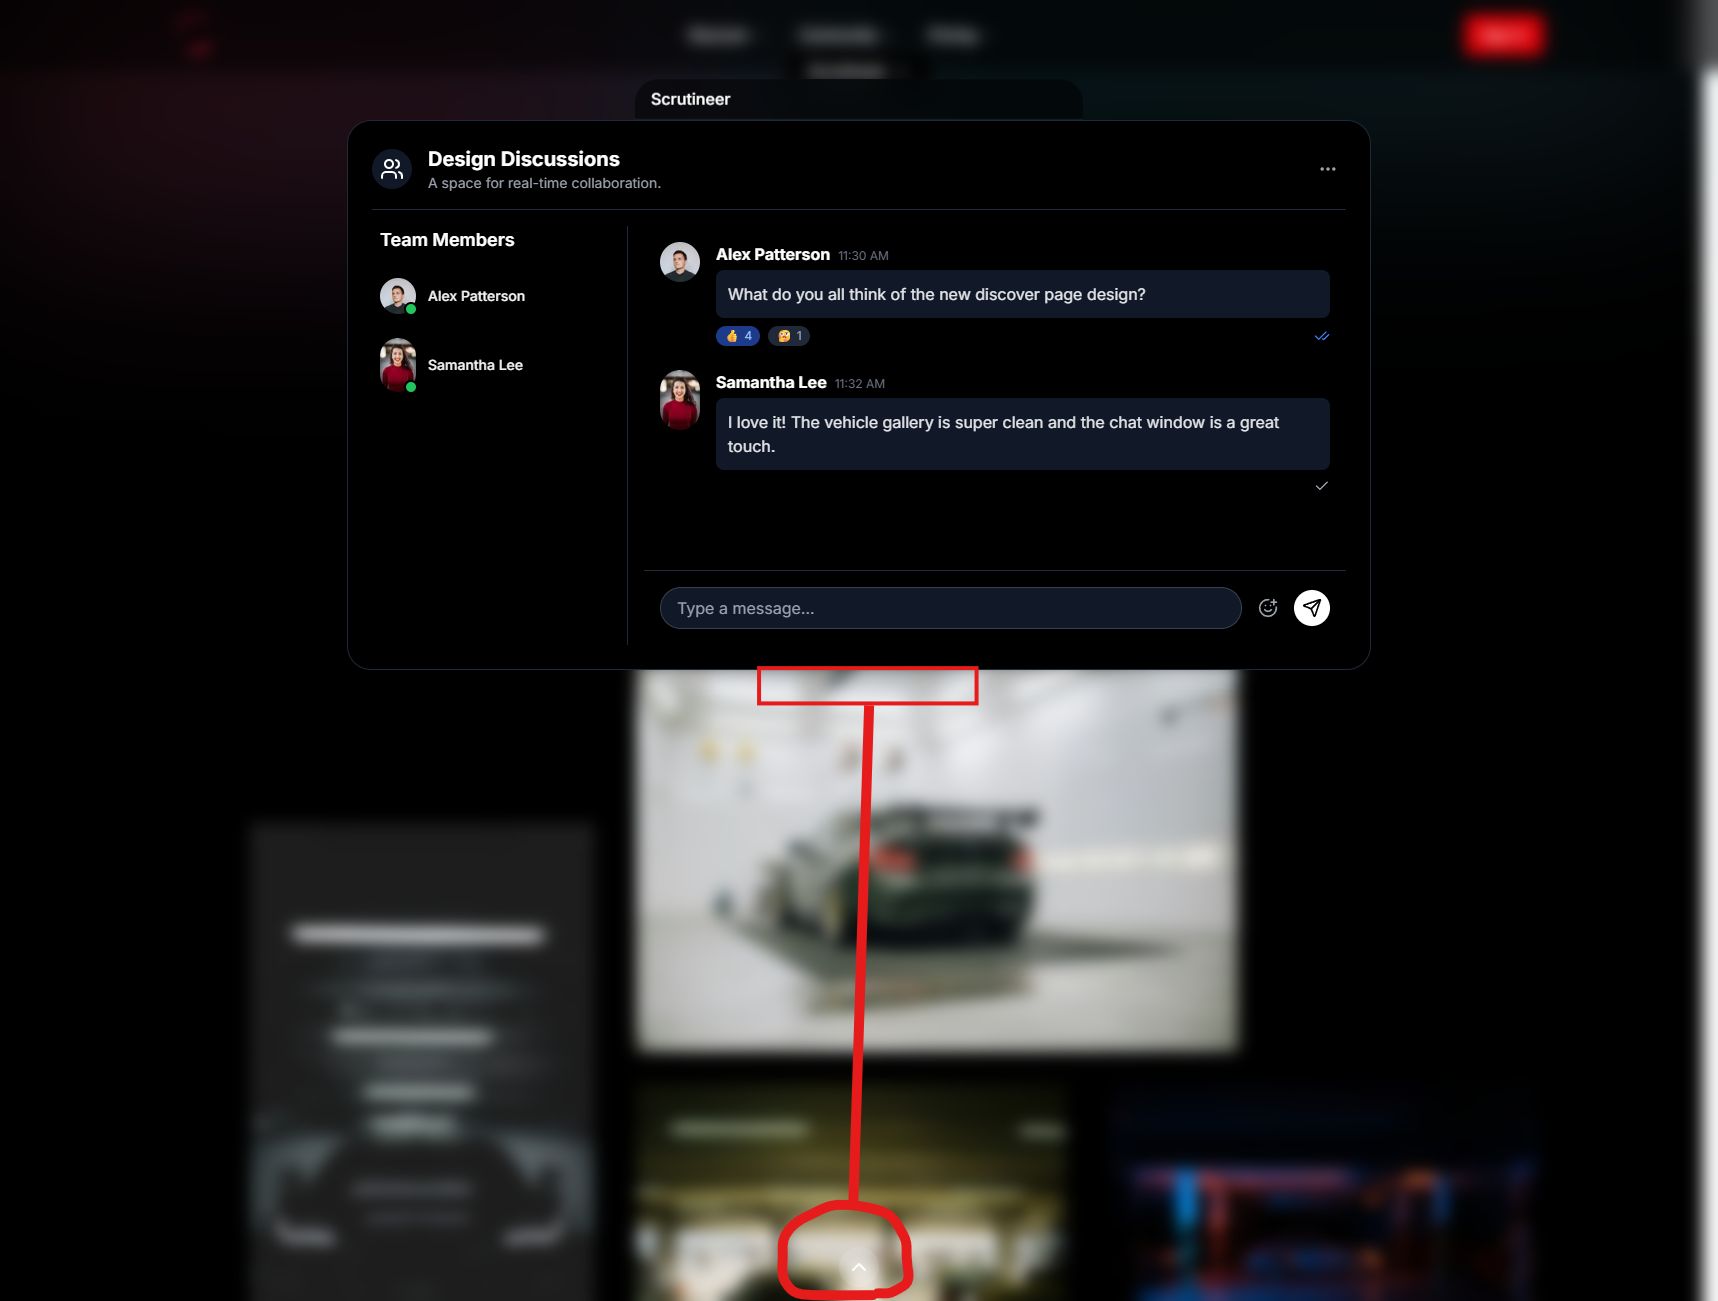
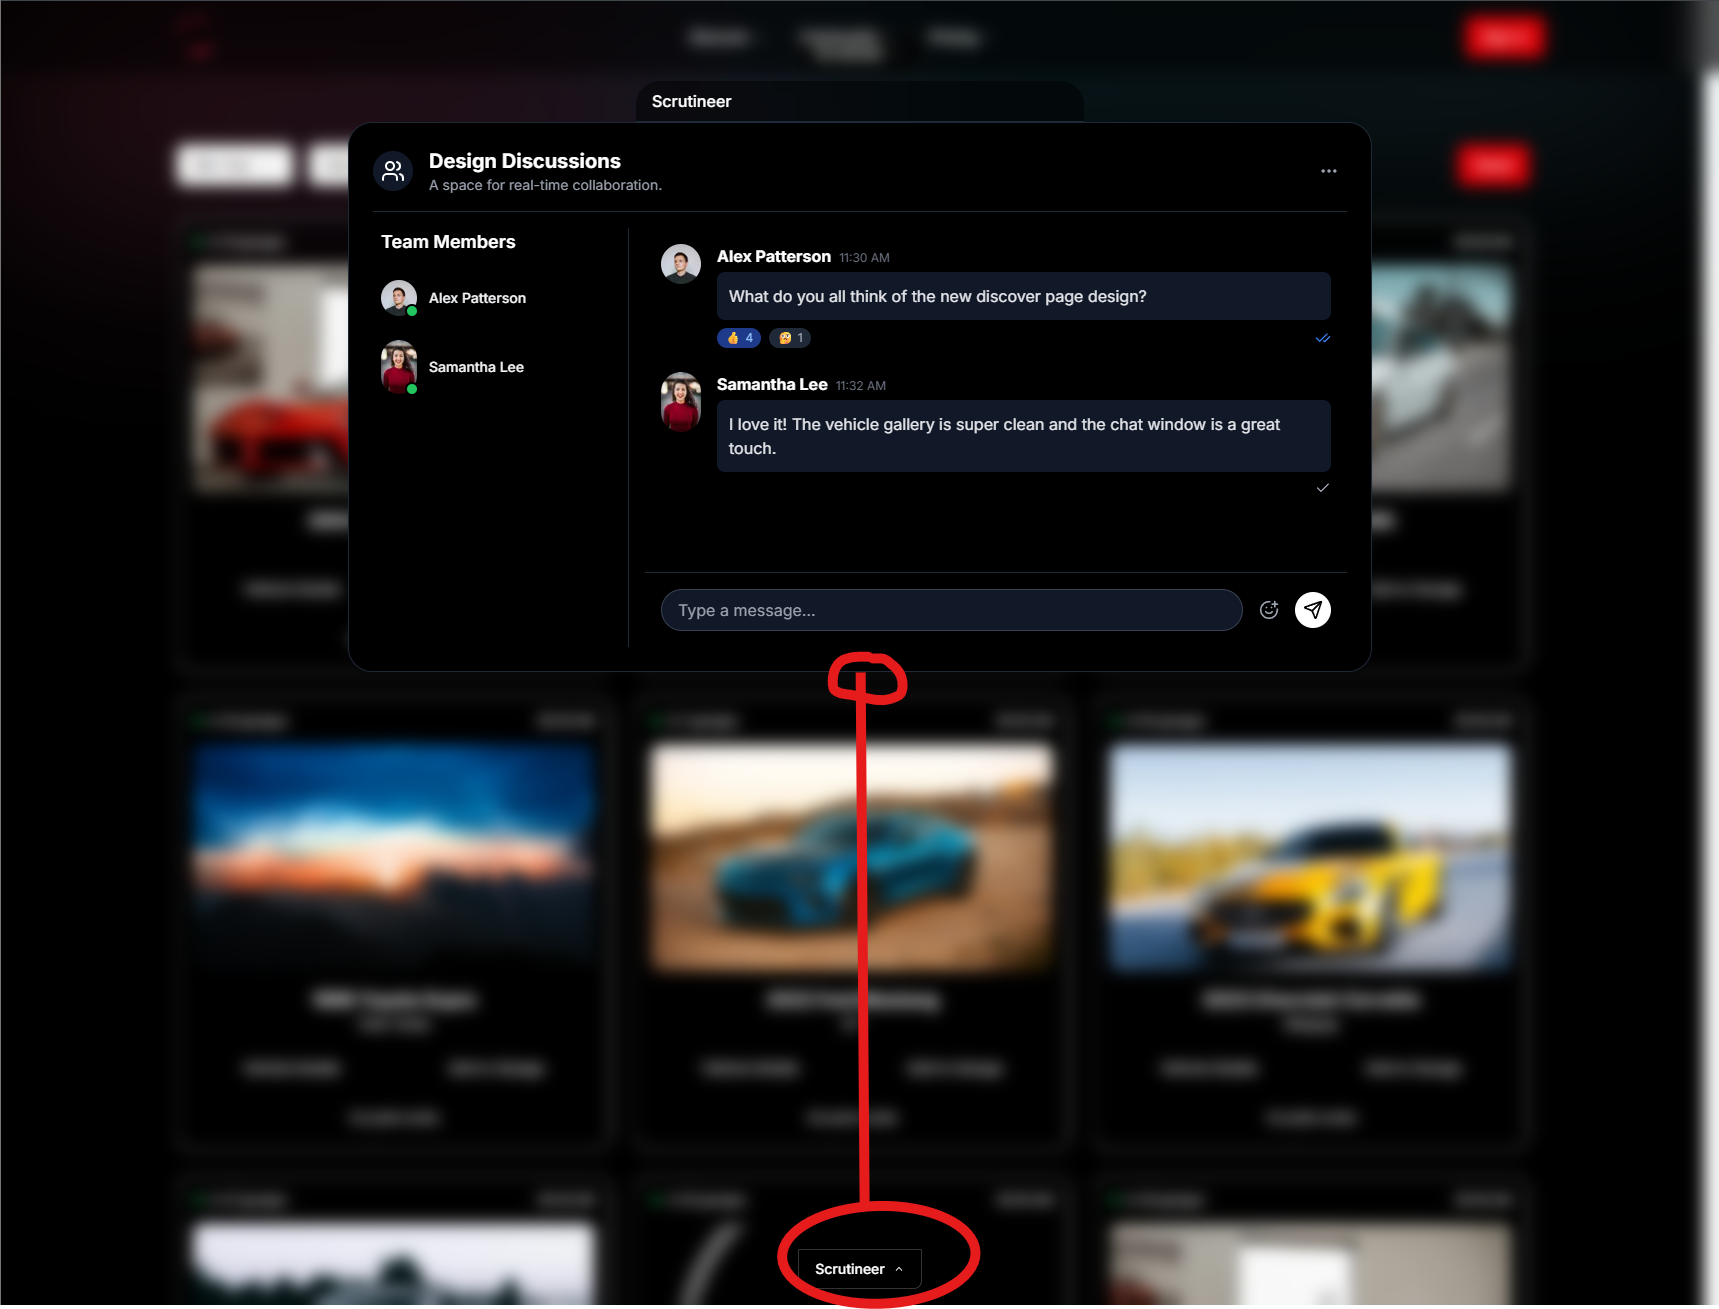
refactor: update ChatDrawer layout and styling, reposition Scrutineer button, and replace screenshots

diff --git a/my-turborepo/packages/ui/src/header.tsx b/my-turborepo/packages/ui/src/header.tsx
@@ -27,53 +27,60 @@ export function Header() {
       <AuthModal open={authModalOpen} onOpenChange={setAuthModalOpen} />
       <ChatDrawer open={chatDrawerOpen} onOpenChange={setChatDrawerOpen} />
     <header className="fixed top-0 left-0 right-0 z-50 bg-black/50 backdrop-blur-lg">
-      <div className="container mx-auto flex items-center justify-between p-4 text-white relative">
-        <Link href="/">
-          <Logo />
-        </Link>
-        <NavigationMenu>
-          <NavigationMenuList>
-            <NavigationMenuItem>
-              <NavigationMenuTrigger>Discover</NavigationMenuTrigger>
-              <NavigationMenuContent>
-                <div className="grid grid-cols-2 gap-3 p-4 w-full">
-                  <GridCard title="Explore Vehicles" href="/discover">
-                    Browse a curated collection of unique and interesting vehicles.
-                  </GridCard>
-                  <GridCard title="Featured Builds" href="/builds">
-                    Get inspired by top builds from the community.
-                  </GridCard>
-                </div>
-              </NavigationMenuContent>
-            </NavigationMenuItem>
-            <NavigationMenuItem>
-              <NavigationMenuTrigger>Community</NavigationMenuTrigger>
-              <NavigationMenuContent>
-                <div className="grid grid-cols-2 gap-3 p-4 w-full">
-                  <GridCard title="Community Builds" href="/community/builds">
-                    See what others are building and share your own progress.
-                  </GridCard>
-                  <GridCard title="Member Garages" href="/community/garages">
-                    Check out the garages of other enthusiasts.
-                  </GridCard>
-                </div>
-              </NavigationMenuContent>
-            </NavigationMenuItem>
-            <NavigationMenuItem>
-              <NavigationMenuTrigger>Pricing</NavigationMenuTrigger>
-              <NavigationMenuContent>
-                <PricingDropdown />
-              </NavigationMenuContent>
-            </NavigationMenuItem>
-          </NavigationMenuList>
-        </NavigationMenu>
-        <Button onClick={() => setAuthModalOpen(true)}>Sign In</Button>
+      <div className="container mx-auto p-4 text-white">
+        {/* Top row with logo and sign in */}
+        <div className="flex items-center justify-between mb-4">
+          <Link href="/">
+            <Logo />
+          </Link>
+          <Button onClick={() => setAuthModalOpen(true)}>Sign In</Button>
+        </div>
 
-        {/* Scrutineer Tab - positioned at bottom of header */}
-        <div className="absolute bottom-0 left-1/2 transform -translate-x-1/2">
+        {/* Centered navigation menu */}
+        <div className="flex justify-center">
+          <NavigationMenu>
+            <NavigationMenuList>
+              <NavigationMenuItem>
+                <NavigationMenuTrigger>Discover</NavigationMenuTrigger>
+                <NavigationMenuContent>
+                  <div className="grid grid-cols-2 gap-3 p-4 w-full">
+                    <GridCard title="Explore Vehicles" href="/discover">
+                      Browse a curated collection of unique and interesting vehicles.
+                    </GridCard>
+                    <GridCard title="Featured Builds" href="/builds">
+                      Get inspired by top builds from the community.
+                    </GridCard>
+                  </div>
+                </NavigationMenuContent>
+              </NavigationMenuItem>
+              <NavigationMenuItem>
+                <NavigationMenuTrigger>Community</NavigationMenuTrigger>
+                <NavigationMenuContent>
+                  <div className="grid grid-cols-2 gap-3 p-4 w-full">
+                    <GridCard title="Community Builds" href="/community/builds">
+                      See what others are building and share your own progress.
+                    </GridCard>
+                    <GridCard title="Member Garages" href="/community/garages">
+                      Check out the garages of other enthusiasts.
+                    </GridCard>
+                  </div>
+                </NavigationMenuContent>
+              </NavigationMenuItem>
+              <NavigationMenuItem>
+                <NavigationMenuTrigger>Pricing</NavigationMenuTrigger>
+                <NavigationMenuContent>
+                  <PricingDropdown />
+                </NavigationMenuContent>
+              </NavigationMenuItem>
+            </NavigationMenuList>
+          </NavigationMenu>
+        </div>
+
+        {/* Scrutineer Tab - positioned at bottom of header, centered and merged with bottom edge */}
+        <div className="flex justify-center mt-4">
           <button
             onClick={() => setChatDrawerOpen(!chatDrawerOpen)}
-            className="bg-black/50 backdrop-blur-lg border border-white/20 rounded-b-lg h-10 px-4 py-2 text-sm font-medium text-white hover:bg-slate-800/50 transition-colors flex items-center gap-2 shadow-lg"
+            className="bg-transparent border-0 h-10 px-4 py-2 text-sm font-medium text-white hover:bg-slate-800/50 transition-colors flex items-center gap-2"
           >
             Scrutineer
             {chatDrawerOpen ? <ChevronUp className="h-3 w-3" /> : <ChevronDown className="h-3 w-3" />}

diff --git a/my-turborepo/packages/ui/src/chat-drawer.tsx b/my-turborepo/packages/ui/src/chat-drawer.tsx
@@ -19,19 +19,18 @@ type ChatDrawerProps = {
 export function ChatDrawer({ open, onOpenChange }: ChatDrawerProps) {
   return (
     <Drawer open={open} onOpenChange={onOpenChange} direction="top">
-      <DrawerContent className="h-[calc(100vh-80px)] mt-20 flex flex-col rounded-t-3xl">
+      <DrawerContent className="h-[calc(100vh-120px)] mt-32 flex flex-col rounded-t-3xl">
         <DrawerHeader className="text-left flex-shrink-0">
           <DrawerTitle>Scrutineer</DrawerTitle>
         </DrawerHeader>
         <div className="overflow-y-auto flex-grow">
           <ChatWindow />
         </div>
-        {/* Tab-like close button at bottom of modal */}
-        <div className="flex justify-center pb-4">
+        {/* Close button attached to bottom of modal */}
+        <div className="flex justify-center pb-4 -mb-4">
           <DrawerClose asChild>
-            <button className="bg-black/50 backdrop-blur-lg border border-white/20 rounded-b-lg h-10 px-4 py-2 text-sm font-medium text-white hover:bg-slate-800/50 transition-colors flex items-center gap-2 shadow-lg">
-              Scrutineer
-              <ChevronUp className="h-3 w-3" />
+            <button className="bg-black/50 backdrop-blur-lg border border-white/20 rounded-b-lg h-10 w-20 flex items-center justify-center hover:bg-slate-800/50 transition-colors shadow-lg">
+              <ChevronUp className="h-3 w-3 text-white" />
             </button>
           </DrawerClose>
         </div>
